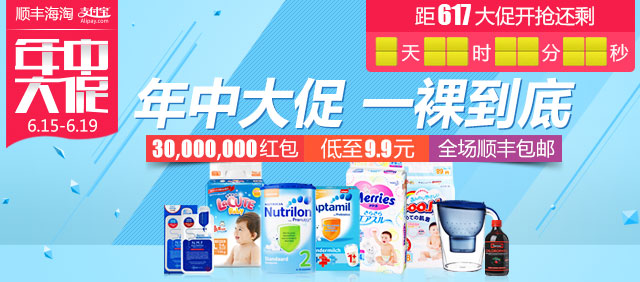
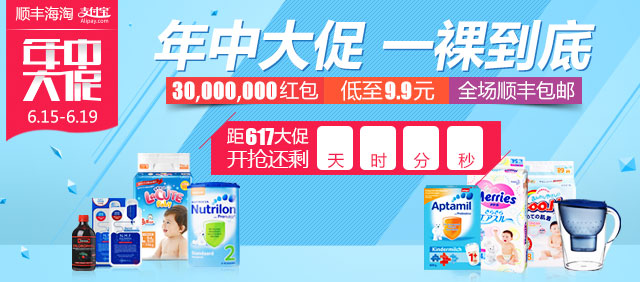
slider

diff --git a/app/static/html/index.html b/app/static/html/index.html
@@ -1,4 +1,4 @@
-<!DOCTYPE html><html><head><meta charset="UTF-8"><meta name="viewport" content="width=device-width, initial-scale=1, maximum-scale=1, user-scalable=no"><title>顺丰海淘详情页</title><link rel="stylesheet" href="../css/swiper.min.css"><link rel="stylesheet" href="../css/style.css"></head><body class="body1"><!--头部--><header class="header clearfix"><div class="header-c1 fl"><a href="index.html" class="icon icon3">顺丰海淘</a></div><div class="header-c2 fr"><a href="center.html" class="icon icon48">购物车<span class="dot dot-error">50</span></a><a href="center.html" class="icon icon2">个人中心</a></div></header><!--头部--><!--幻灯--><div class="swiper-container">    <div class="swiper-wrapper"><div class="swiper-slide"><img src="../img/banner.jpg" alt=""><div class="swiper-time"><span>1</span><span>12</span><span>34</span><span>56</span></div></div><div class="swiper-slide"><img src="../img/banner.jpg" alt=""><div class="swiper-time"><span>1</span><span>12</span><span>34</span><span>56</span></div></div><div class="swiper-slide"><img src="../img/banner.jpg" alt=""><div class="swiper-time"><span>1</span><span>12</span><span>34</span><span>56</span></div></div></div><div class="swiper-pagination"></div></div><!--幻灯--><!--导航--><nav class="nav1"><ul class="clearfix"><li><a href=""><span class="nav1-icon1"></span>母婴</a></li><li><a href=""><span class="nav1-icon2"></span>美妆</a></li><li><a href=""><span class="nav1-icon3"></span>食品</a></li><li><a href=""><span class="nav1-icon4"></span>原汁原味</a></li></ul></nav><!--导航--><!--限时抢购--><section class="flashsale"><h2 class="text-h2">限时抢购</h2><ul><li class="clearfix"><div class="flashsale-c1 fl"><img src="../img/flashsale.png" alt="" width="85"></div><div class="flashsale-c2"><h3 class="ellipsis2">墨西哥loviLOSHIs黑色黄金手环黑色手提袋限量版</h3><div class="flashsale-c2r1"><span class="icon icon36"></span>仅剩:<span class="text-error">10天8小时8分8秒</span></div><div class="flashsale-c2r2"><span class="text-error">¥1280</span><del>¥1680</del></div></div></li><li class="clearfix"><div class="flashsale-c1 fl"><img src="../img/flashsale.png" alt="" width="85"></div><div class="flashsale-c2"><h3 class="ellipsis2">墨西哥loviLOSHIs黑色黄金手环黑色手提袋限量版</h3><div class="flashsale-c2r1"><span class="icon icon36"></span>仅剩:<span class="text-error">10天8小时8分8秒</span></div><div class="flashsale-c2r2"><span class="text-error">¥1280</span><del>¥1680</del></div></div></li></ul></section><!--限时抢购--><!--狂欢专场--><section class="carnival"><h2 class="text-h2">狂欢专场</h2><ul><li><img src="../img/carnival.png" alt=""><div class="carnival-b"><h3 class="ellipsis2">荷兰Nutrilon牛栏婴儿奶粉1段 850g/罐荷兰牛<栏婴儿奶粉1段>850g/罐</h3>
+<!DOCTYPE html><html><head><meta charset="UTF-8"><meta name="viewport" content="width=device-width, initial-scale=1, maximum-scale=1, user-scalable=no"><title>顺丰海淘详情页</title><link rel="stylesheet" href="../css/swiper.min.css"><link rel="stylesheet" href="../css/style.css"></head><body class="body1"><!--头部--><header class="header clearfix"><div class="header-c1 fl"><a href="index.html" class="icon icon3">顺丰海淘</a></div><div class="header-c2 fr"><a href="center.html" class="icon icon48">购物车<span class="dot dot-error">50</span></a><a href="center.html" class="icon icon2">个人中心</a></div></header><!--头部--><!--幻灯--><div class="swiper-container">    <div class="swiper-wrapper"><div class="swiper-slide"><img src="../img/banner.jpg" alt=""><div class="swiper-time"><span>01</span><span>12</span><span>34</span><span>56</span></div></div><div class="swiper-slide"><img src="../img/banner.jpg" alt=""><div class="swiper-time"><span>01</span><span>12</span><span>34</span><span>56</span></div></div><div class="swiper-slide"><img src="../img/banner.jpg" alt=""><div class="swiper-time"><span>01</span><span>12</span><span>34</span><span>56</span></div></div></div><div class="swiper-pagination"></div></div><!--幻灯--><!--导航--><nav class="nav1"><ul class="clearfix"><li><a href=""><span class="nav1-icon1"></span>母婴</a></li><li><a href=""><span class="nav1-icon2"></span>美妆</a></li><li><a href=""><span class="nav1-icon3"></span>食品</a></li><li><a href=""><span class="nav1-icon4"></span>原汁原味</a></li></ul></nav><!--导航--><!--限时抢购--><section class="flashsale"><h2 class="text-h2">限时抢购</h2><ul><li class="clearfix"><div class="flashsale-c1 fl"><img src="../img/flashsale.png" alt="" width="85"></div><div class="flashsale-c2"><h3 class="ellipsis2">墨西哥loviLOSHIs黑色黄金手环黑色手提袋限量版</h3><div class="flashsale-c2r1"><span class="icon icon36"></span>仅剩:<span class="text-error">10天8小时8分8秒</span></div><div class="flashsale-c2r2"><span class="text-error">¥1280</span><del>¥1680</del></div></div></li><li class="clearfix"><div class="flashsale-c1 fl"><img src="../img/flashsale.png" alt="" width="85"></div><div class="flashsale-c2"><h3 class="ellipsis2">墨西哥loviLOSHIs黑色黄金手环黑色手提袋限量版</h3><div class="flashsale-c2r1"><span class="icon icon36"></span>仅剩:<span class="text-error">10天8小时8分8秒</span></div><div class="flashsale-c2r2"><span class="text-error">¥1280</span><del>¥1680</del></div></div></li></ul></section><!--限时抢购--><!--狂欢专场--><section class="carnival"><h2 class="text-h2">狂欢专场</h2><ul><li><img src="../img/carnival.png" alt=""><div class="carnival-b"><h3 class="ellipsis2">荷兰Nutrilon牛栏婴儿奶粉1段 850g/罐荷兰牛<栏婴儿奶粉1段>850g/罐</h3>
           <p class="ellipsis3">荷兰奶粉第一品牌，进口市场占有率高达73%。只采用最优质无污染的天然牧场奶源。口味清淡、粉质精细，更有活动超值狂欢价，单罐仅需110元，好味道更有好价格！</p>
           <div class="carnival-r1">
               <span class="icon icon36"></span>仅剩:<span class="text-error">10天8小时8分8秒</span>

diff --git a/app/static/html/nataral-detail.html b/app/static/html/nataral-detail.html
@@ -1,1 +1,1 @@
-<!DOCTYPE html><html><head><meta charset="UTF-8"><meta name="viewport" content="width=device-width, initial-scale=1, maximum-scale=1, user-scalable=no"><title>顺丰海淘详情页</title><link rel="stylesheet" href="../css/common.css"><link rel="stylesheet" href="../css/nataral.css"></head><body class="body1"><!--头部--><header class="header clearfix"><div class="header-c1 fl"><a href="index.html" class="icon icon3">顺丰海淘</a></div><div class="header-c3 fl">原汁原味</div><div class="header-c2 fr"><a href="center.html" class="icon icon2">个人中心</a></div></header><!--头部--><section class="nataral-detail"><div class="swiper-container">    <div class="swiper-wrapper"><div class="swiper-slide"><img src="../img/banner.jpg" alt=""><div class="swiper-time"><span>1</span><span>12</span><span>34</span><span>56</span></div></div><div class="swiper-slide"><img src="../img/banner.jpg" alt=""><div class="swiper-time"><span>1</span><span>12</span><span>34</span><span>56</span></div></div><div class="swiper-slide"><img src="../img/banner.jpg" alt=""><div class="swiper-time"><span>1</span><span>12</span><span>34</span><span>56</span></div></div></div><div class="swiper-pagination"></div></div><h1>台灣進口糖村法式牛軋糖禮盒裝 — 白色情人節特情人節別版</h1><div class="nataral-detail-r1"><span class="text-important">¥290</span><span>（含税）</span><del>¥499</del></div><p class="nataral-detail-r2">店家发货：香港 发货,预计6-12 天内到货</p><h2>商品详情</h2><ul><li><span class="justify">包装规格</span>: 一段</li><li><span class="justify">容 量</span>: 100ml</li><li><span class="justify">口 味</span>: 香橙味</li></ul><ul><li><span class="justify">品 牌</span>: Friso美素</li></ul><ul><li><span class="justify">商品属性</span>: </li><li><span class="justify">容 量</span>: 100ml</li><li><span class="justify">口 味</span>: 香橙味</li></ul></section><section class="nav"><div class="nav-r1"><div class="nav-c2"><a href="detail-select.html" class="btn btn-danger btn-big">立即购买</a></div></div>		</section><script src="../js/zepto.min.js"></script><script src="../js/swipe.js"></script><script src="../js/slider.js"></script>	</body></html>
+<!DOCTYPE html><html><head><meta charset="UTF-8"><meta name="viewport" content="width=device-width, initial-scale=1, maximum-scale=1, user-scalable=no"><title>顺丰海淘详情页</title><link rel="stylesheet" href="../css/common.css"><link rel="stylesheet" href="../css/nataral.css"></head><body class="body1"><!--头部--><header class="header clearfix"><div class="header-c1 fl"><a href="index.html" class="icon icon3">顺丰海淘</a></div><div class="header-c3 fl">原汁原味</div><div class="header-c2 fr"><a href="center.html" class="icon icon2">个人中心</a></div></header><!--头部--><section class="nataral-detail"><div class="swiper-container">    <div class="swiper-wrapper"><div class="swiper-slide"><img src="../img/banner.jpg" alt=""><div class="swiper-time"><span>01</span><span>12</span><span>34</span><span>56</span></div></div><div class="swiper-slide"><img src="../img/banner.jpg" alt=""><div class="swiper-time"><span>01</span><span>12</span><span>34</span><span>56</span></div></div><div class="swiper-slide"><img src="../img/banner.jpg" alt=""><div class="swiper-time"><span>01</span><span>12</span><span>34</span><span>56</span></div></div></div><div class="swiper-pagination"></div></div><h1>台灣進口糖村法式牛軋糖禮盒裝 — 白色情人節特情人節別版</h1><div class="nataral-detail-r1"><span class="text-important">¥290</span><span>（含税）</span><del>¥499</del></div><p class="nataral-detail-r2">店家发货：香港 发货,预计6-12 天内到货</p><h2>商品详情</h2><ul><li><span class="justify">包装规格</span>: 一段</li><li><span class="justify">容 量</span>: 100ml</li><li><span class="justify">口 味</span>: 香橙味</li></ul><ul><li><span class="justify">品 牌</span>: Friso美素</li></ul><ul><li><span class="justify">商品属性</span>: </li><li><span class="justify">容 量</span>: 100ml</li><li><span class="justify">口 味</span>: 香橙味</li></ul></section><section class="nav"><div class="nav-r1"><div class="nav-c2"><a href="detail-select.html" class="btn btn-danger btn-big">立即购买</a></div></div>		</section><script src="../js/zepto.min.js"></script><script src="../js/swipe.js"></script><script src="../js/slider.js"></script>	</body></html>

diff --git a/app/static/module/swipe/index.html b/app/static/module/swipe/index.html
@@ -1,1 +1,1 @@
-<!DOCTYPE html><html><head><meta charset="UTF-8"><meta name="viewport" content="width=device-width, initial-scale=1, maximum-scale=1, user-scalable=no"><title>顺丰海淘详情页</title><link rel="stylesheet" href="../../css/common.css"><link rel="stylesheet" href="style.css"></head><body class="body1"><div class="swiper-container">    <div class="swiper-wrapper"><div class="swiper-slide"><img src="../img/banner.jpg" alt=""><div class="swiper-time"><span>1</span><span>12</span><span>34</span><span>56</span></div></div><div class="swiper-slide"><img src="../img/banner.jpg" alt=""><div class="swiper-time"><span>1</span><span>12</span><span>34</span><span>56</span></div></div><div class="swiper-slide"><img src="../img/banner.jpg" alt=""><div class="swiper-time"><span>1</span><span>12</span><span>34</span><span>56</span></div></div></div><div class="swiper-pagination"></div></div></body></html>
+<!DOCTYPE html><html><head><meta charset="UTF-8"><meta name="viewport" content="width=device-width, initial-scale=1, maximum-scale=1, user-scalable=no"><title>顺丰海淘详情页</title><link rel="stylesheet" href="../../css/common.css"><link rel="stylesheet" href="style.css"></head><body class="body1"><div class="swiper-container">    <div class="swiper-wrapper"><div class="swiper-slide"><img src="../img/banner.jpg" alt=""><div class="swiper-time"><span>01</span><span>12</span><span>34</span><span>56</span></div></div><div class="swiper-slide"><img src="../img/banner.jpg" alt=""><div class="swiper-time"><span>01</span><span>12</span><span>34</span><span>56</span></div></div><div class="swiper-slide"><img src="../img/banner.jpg" alt=""><div class="swiper-time"><span>01</span><span>12</span><span>34</span><span>56</span></div></div></div><div class="swiper-pagination"></div></div></body></html>

diff --git a/app/static/module/swipe/style.css b/app/static/module/swipe/style.css
@@ -1,1 +1,1 @@
-.swipe{overflow:hidden;visibility:hidden;position:relative;text-align:center}.swipe-wrap{overflow:hidden;position:relative}.swipe-wrap>div{float:left;width:100%;position:relative}.swipe-dot{text-align:center;position:absolute;bottom:10px;width:100%;font-size:0}.swipe-dot span{display:inline-block;width:7px;height:7px;border-radius:7px;background:rgba(0,0,0,0.3);margin:0 7px}.swipe-dot span.active{background:#dc3334}.swipe img{width:100%}.swiper-container{width:100%}.swiper-container img{width:100%}.swiper-pagination-bullet-active{background:#df3c3a}.swiper-time{position:absolute;top:20px;left:189px;font-family:arial}.swiper-time span{margin-right:12px;letter-spacing:5px}@media screen and (min-width: 375px){.swiper-time{top:24px;left:223px}.swiper-time span{margin-right:17px}}@media screen and (min-width: 414px){.swiper-time{top:28px;left:246px}.swiper-time span{margin-right:22px}}
+.swipe{overflow:hidden;visibility:hidden;position:relative;text-align:center}.swipe-wrap{overflow:hidden;position:relative}.swipe-wrap>div{float:left;width:100%;position:relative}.swipe-dot{text-align:center;position:absolute;bottom:10px;width:100%;font-size:0}.swipe-dot span{display:inline-block;width:7px;height:7px;border-radius:7px;background:rgba(0,0,0,0.3);margin:0 7px}.swipe-dot span.active{background:#dc3334}.swipe img{width:100%}.swiper-container{width:100%}.swiper-container img{width:100%}.swiper-pagination-bullet-active{background:#df3c3a}.swiper-time{position:absolute;top:64px;left:161px;font-family:Impact;font-size:13px}.swiper-time span{margin-right:10px}

diff --git a/app/static/css/common.css b/app/static/css/common.css
@@ -1281,36 +1281,16 @@ a[title="站长统计"] {
 
 .swiper-time {
   position: absolute;
-  top: 20px;
-  left: 189px;
-  font-family: arial;
+  top: 64px;
+  left: 161px;
+  font-family: Impact;
+  font-size: 13px;
 }
 
 .swiper-time span {
-  margin-right: 12px;
-  letter-spacing: 5px;
+  margin-right: 10px;
 }
 
-@media screen and (min-width: 375px) {
-  .swiper-time {
-    top: 24px;
-    left: 223px;
-  }
-
-  .swiper-time span {
-    margin-right: 17px;
-  }
-}
-@media screen and (min-width: 414px) {
-  .swiper-time {
-    top: 28px;
-    left: 246px;
-  }
-
-  .swiper-time span {
-    margin-right: 22px;
-  }
-}
 .logout.center {
   -webkit-border-radius: 10px;
           border-radius: 10px;

diff --git a/app/static/css/style.css b/app/static/css/style.css
@@ -1281,36 +1281,16 @@ a[title="站长统计"] {
 
 .swiper-time {
   position: absolute;
-  top: 20px;
-  left: 189px;
-  font-family: arial;
+  top: 64px;
+  left: 161px;
+  font-family: Impact;
+  font-size: 13px;
 }
 
 .swiper-time span {
-  margin-right: 12px;
-  letter-spacing: 5px;
+  margin-right: 10px;
 }
 
-@media screen and (min-width: 375px) {
-  .swiper-time {
-    top: 24px;
-    left: 223px;
-  }
-
-  .swiper-time span {
-    margin-right: 17px;
-  }
-}
-@media screen and (min-width: 414px) {
-  .swiper-time {
-    top: 28px;
-    left: 246px;
-  }
-
-  .swiper-time span {
-    margin-right: 22px;
-  }
-}
 .logout.center {
   -webkit-border-radius: 10px;
           border-radius: 10px;

diff --git a/app/static/scss/components/_swipe.scss b/app/static/scss/components/_swipe.scss
@@ -47,29 +47,11 @@
 
 .swiper-time{
   position: absolute;
-  top: 20px;
-  left: 189px;
-  font-family: arial;
+  top: 64px;
+  left: 161px;
+  font-family: Impact;
+  font-size: 13px;
 }
 .swiper-time span{
-  margin-right: 12px;
-  letter-spacing: 5px;
-}
-@media screen and (min-width: 375px) {
-  .swiper-time{
-    top: 24px;
-    left: 223px;
-  }
-  .swiper-time span{
-    margin-right: 17px;
-  }
-}
-@media screen and (min-width: 414px) {
-  .swiper-time{
-    top: 28px;
-    left: 246px;
-  }
-  .swiper-time span{
-    margin-right: 22px;
-  }
+  margin-right: 10px;
 }
